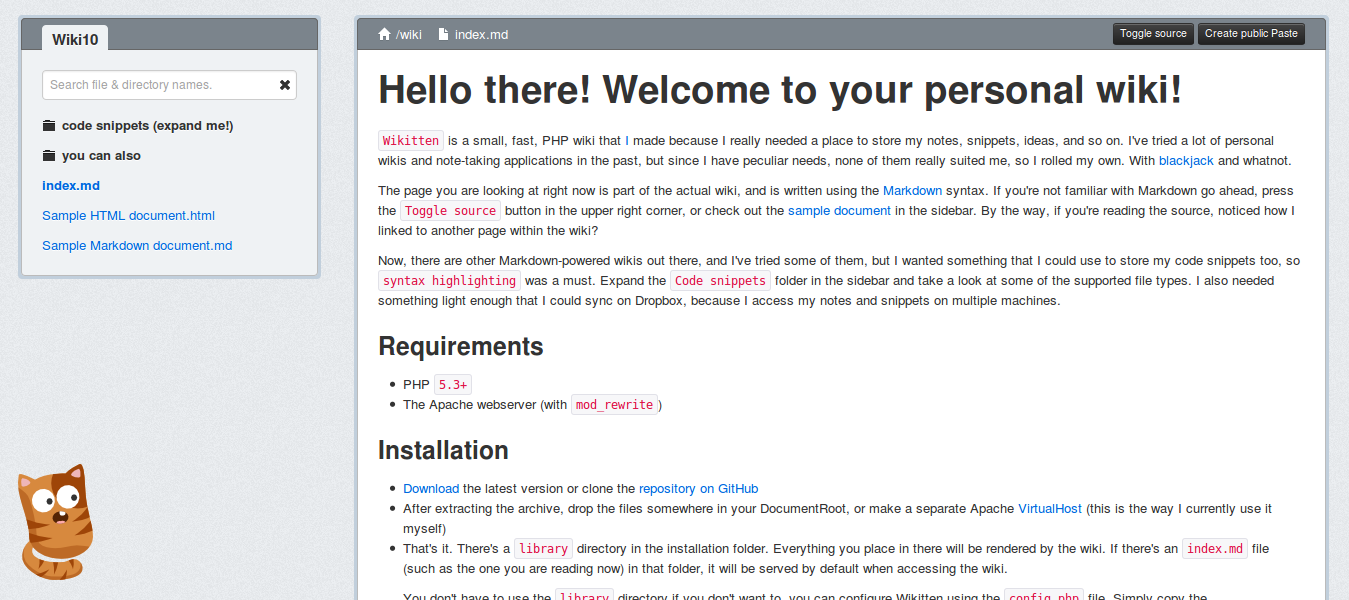
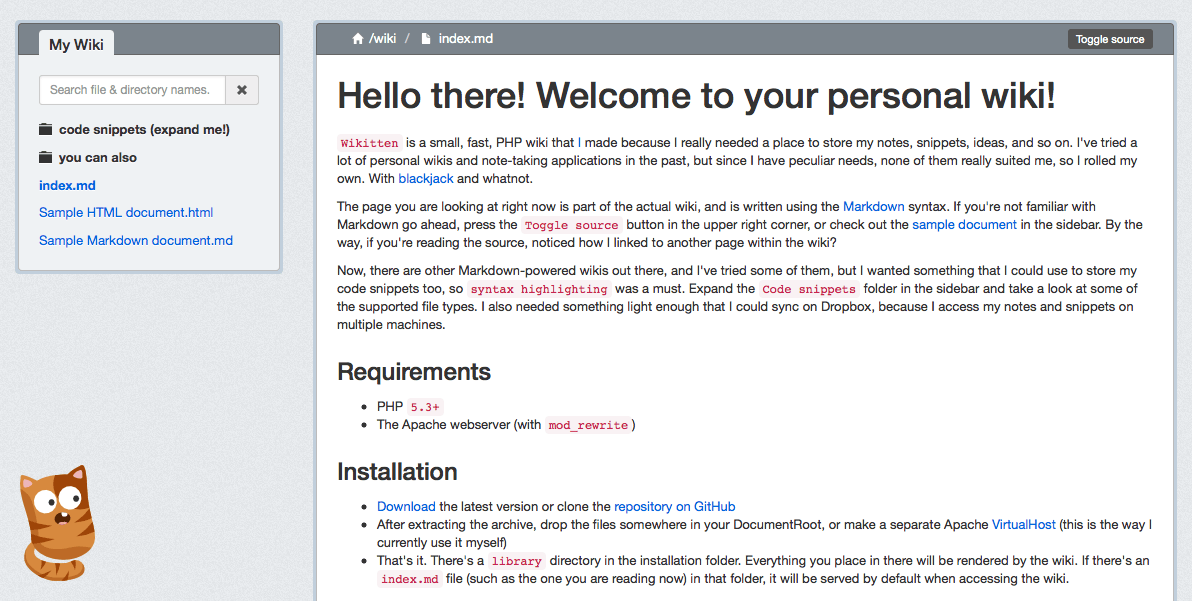
Updated index.md, fixed CSS problems and added a screenshot for the dark theme

diff --git a/static/css/main.css b/static/css/main.css
@@ -54,6 +54,9 @@ code, pre {
 #render table {
     width: auto;
 }
+#render img {
+    max-width: 100%;
+}
 #render :last-child {
     margin-bottom: 0;
 }
@@ -235,6 +238,12 @@ form {
 }
 #tree-filter-clear-query {
     cursor: pointer;
+}
+#tree {
+    padding: 0;
+}
+#tree li {
+    list-style: none;
 }
 #tree,
 #tree-filter-results {

diff --git a/static/css/main_dark.css b/static/css/main_dark.css
@@ -52,6 +52,9 @@ code, pre {
 #render table {
     width: auto;
 }
+#render img {
+    max-width: 100%;
+}
 #render :last-child {
     margin-bottom: 0;
 }
@@ -232,6 +235,12 @@ form {
 }
 #tree-filter-clear-query {
     cursor: pointer;
+}
+#tree {
+    padding: 0;
+}
+#tree li {
+    list-style: none;
 }
 #tree,
 #tree-filter-results {

diff --git a/library/index.md b/library/index.md
@@ -24,10 +24,19 @@ Now, there are other Markdown-powered wikis out there, and I've tried some of th
 * After extracting the archive, drop the files somewhere in your DocumentRoot, or make a separate Apache [VirtualHost](http://httpd.apache.org/docs/2.2/mod/core.html#virtualhost) (this is the way I currently use it myself)
 * That's it. There's a `library` directory in the installation folder. Everything you place in there will be rendered by the wiki. If there's an `index.md` file (such as the one you are reading now) in that folder, it will be served by default when accessing the wiki.
 
-  You don't have to use the `library` directory if you don't want to, you can configure Wikitten using
-  the `config.php` file. Simply copy the `config.php.example` file found in the site root to `config.php`,
-  and change the values of the constants defined inside.
-  If you want to use another file as the default page (for example README.md) set the filename in the `config.php` file with the `DEFAULT_FILE` setting.
+### Configure Wikitten
+
+You are able to configure Wikitten by using the config file.
+First, copy the `config.php.example` to `config.php` and you are ready to change the settings.   
+Some options are disabled with a comment but can be enabled by removing `//` from the option line.
+
+* `define('APP_NAME', 'My Wiki');` - Set the Wiki title
+* `define('DEFAULT_FILE', 'index.md');` - Choose the file that should be loaded as the homepage, must be located in library folder
+* `define('LIBRARY', '/path/to/wiki/library');` - Set a custom path to the library
+* `define('ENABLE_EDITING', true);` - Enable the in-page editing of any files
+* `define('USE_PAGE_METADATA', true);` - Enable the JSON Front Matter (meta data), see below for more details
+* `define('USE_DARK_THEME', true);` - Enable the dark theme (see below for a screenshot)
+* `define('USE_WIKITTEN_LOGO', false);` - Disable the Wikitten logo on the left bottom
 
 ### JSON Front Matter (meta data)
 
@@ -52,6 +61,13 @@ header is passed as-is to the views, so future components and plugins may also m
 
 - Strings (i.e: `title` must be written within double quotes: `"title"`)
 - Values must be seperated with a comma character, even if its the only value in a line.
+
+### Dark Theme
+
+If you are working until midnight it can be a pain to look at bright white backgrounds. That's why Wikitten offers a Dark Theme which can be enabled in the config.php file with the `define('USE_DARK_THEME', true);` option.
+
+It looks like this:
+![Screenshot Dark Mode](static/img/screenshot_dark.png)
 
 ### Roadmap
 
